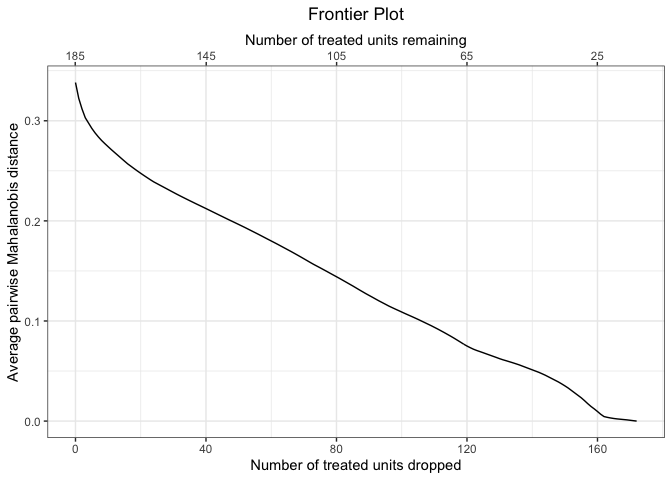
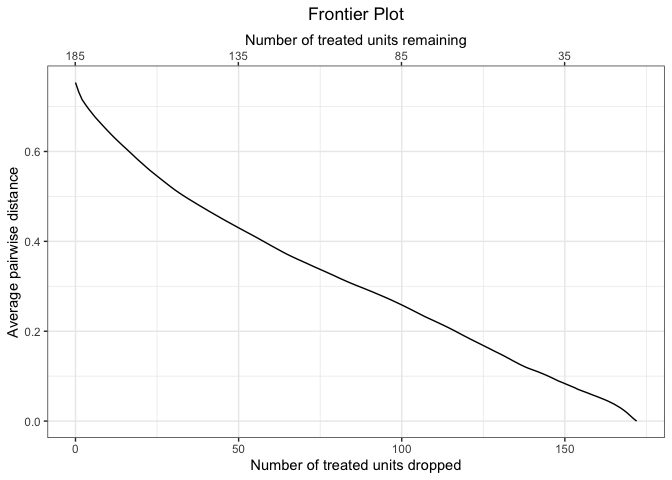
README and vignette updates

diff --git a/README.md b/README.md
@@ -5,7 +5,7 @@
 
 <!-- <img src="man/figures/logo.png" align="right" width="150"/> -->
 
-## [![CRAN\_Status\_Badge](https://img.shields.io/cran/v/MatchingFrontier?color=952100)](https://cran.r-project.org/package=MatchingFrontier) [![CRAN\_Downloads\_Badge](https://cranlogs.r-pkg.org/badges/MatchingFrontier?color=952100)](https://cran.r-project.org/package=MatchingFrontier)
+## [![CRAN_Status_Badge](https://img.shields.io/cran/v/MatchingFrontier?color=952100)](https://cran.r-project.org/package=MatchingFrontier) [![CRAN_Downloads_Badge](https://cranlogs.r-pkg.org/badges/MatchingFrontier?color=952100)](https://cran.r-project.org/package=MatchingFrontier)
 
 ### Overview
 
@@ -33,23 +33,18 @@ mahal.frontier <- makeFrontier(treat ~ age + educ + race + married +
                                  nodegree + re74 + re75,
                                data = lalonde, 
                                QOI = "FSATT", 
-                               metric = "mahal")
-```
+                               metric = "dist",
+                               verbose = FALSE)
 
-    #> Computing distance matrix...
-    #> Calculating frontier...
-    #> Done!
-
-``` r
 mahal.frontier
 ```
 
     #> A matchFrontier object
     #> - quantity of interest: FSATT
-    #> - imbalance metric: average pairwise Mahalanobis distance
+    #> - imbalance metric: average pairwise distance
     #> - treatment: treat
     #> - covariates: age, educ, race, married, nodegree, re74, re75
-    #> - number of points: 137
+    #> - number of points: 154
 
 Plotting the frontier provides a clear picture of the relationship
 between the number of units pruned in the matching and the remaining
@@ -73,7 +68,7 @@ mahal.estimates
     #> A frontierEstimates object
     #> - quantity of interest: FSATT
     #> - model sensitivity method: none
-    #> - number of estimates: 137
+    #> - number of estimates: 149
     #> - treatment: treat
     #> - covariates: age, educ, race, married, nodegree, re74, re75
     #> - outcome model: re78 ~ treat
